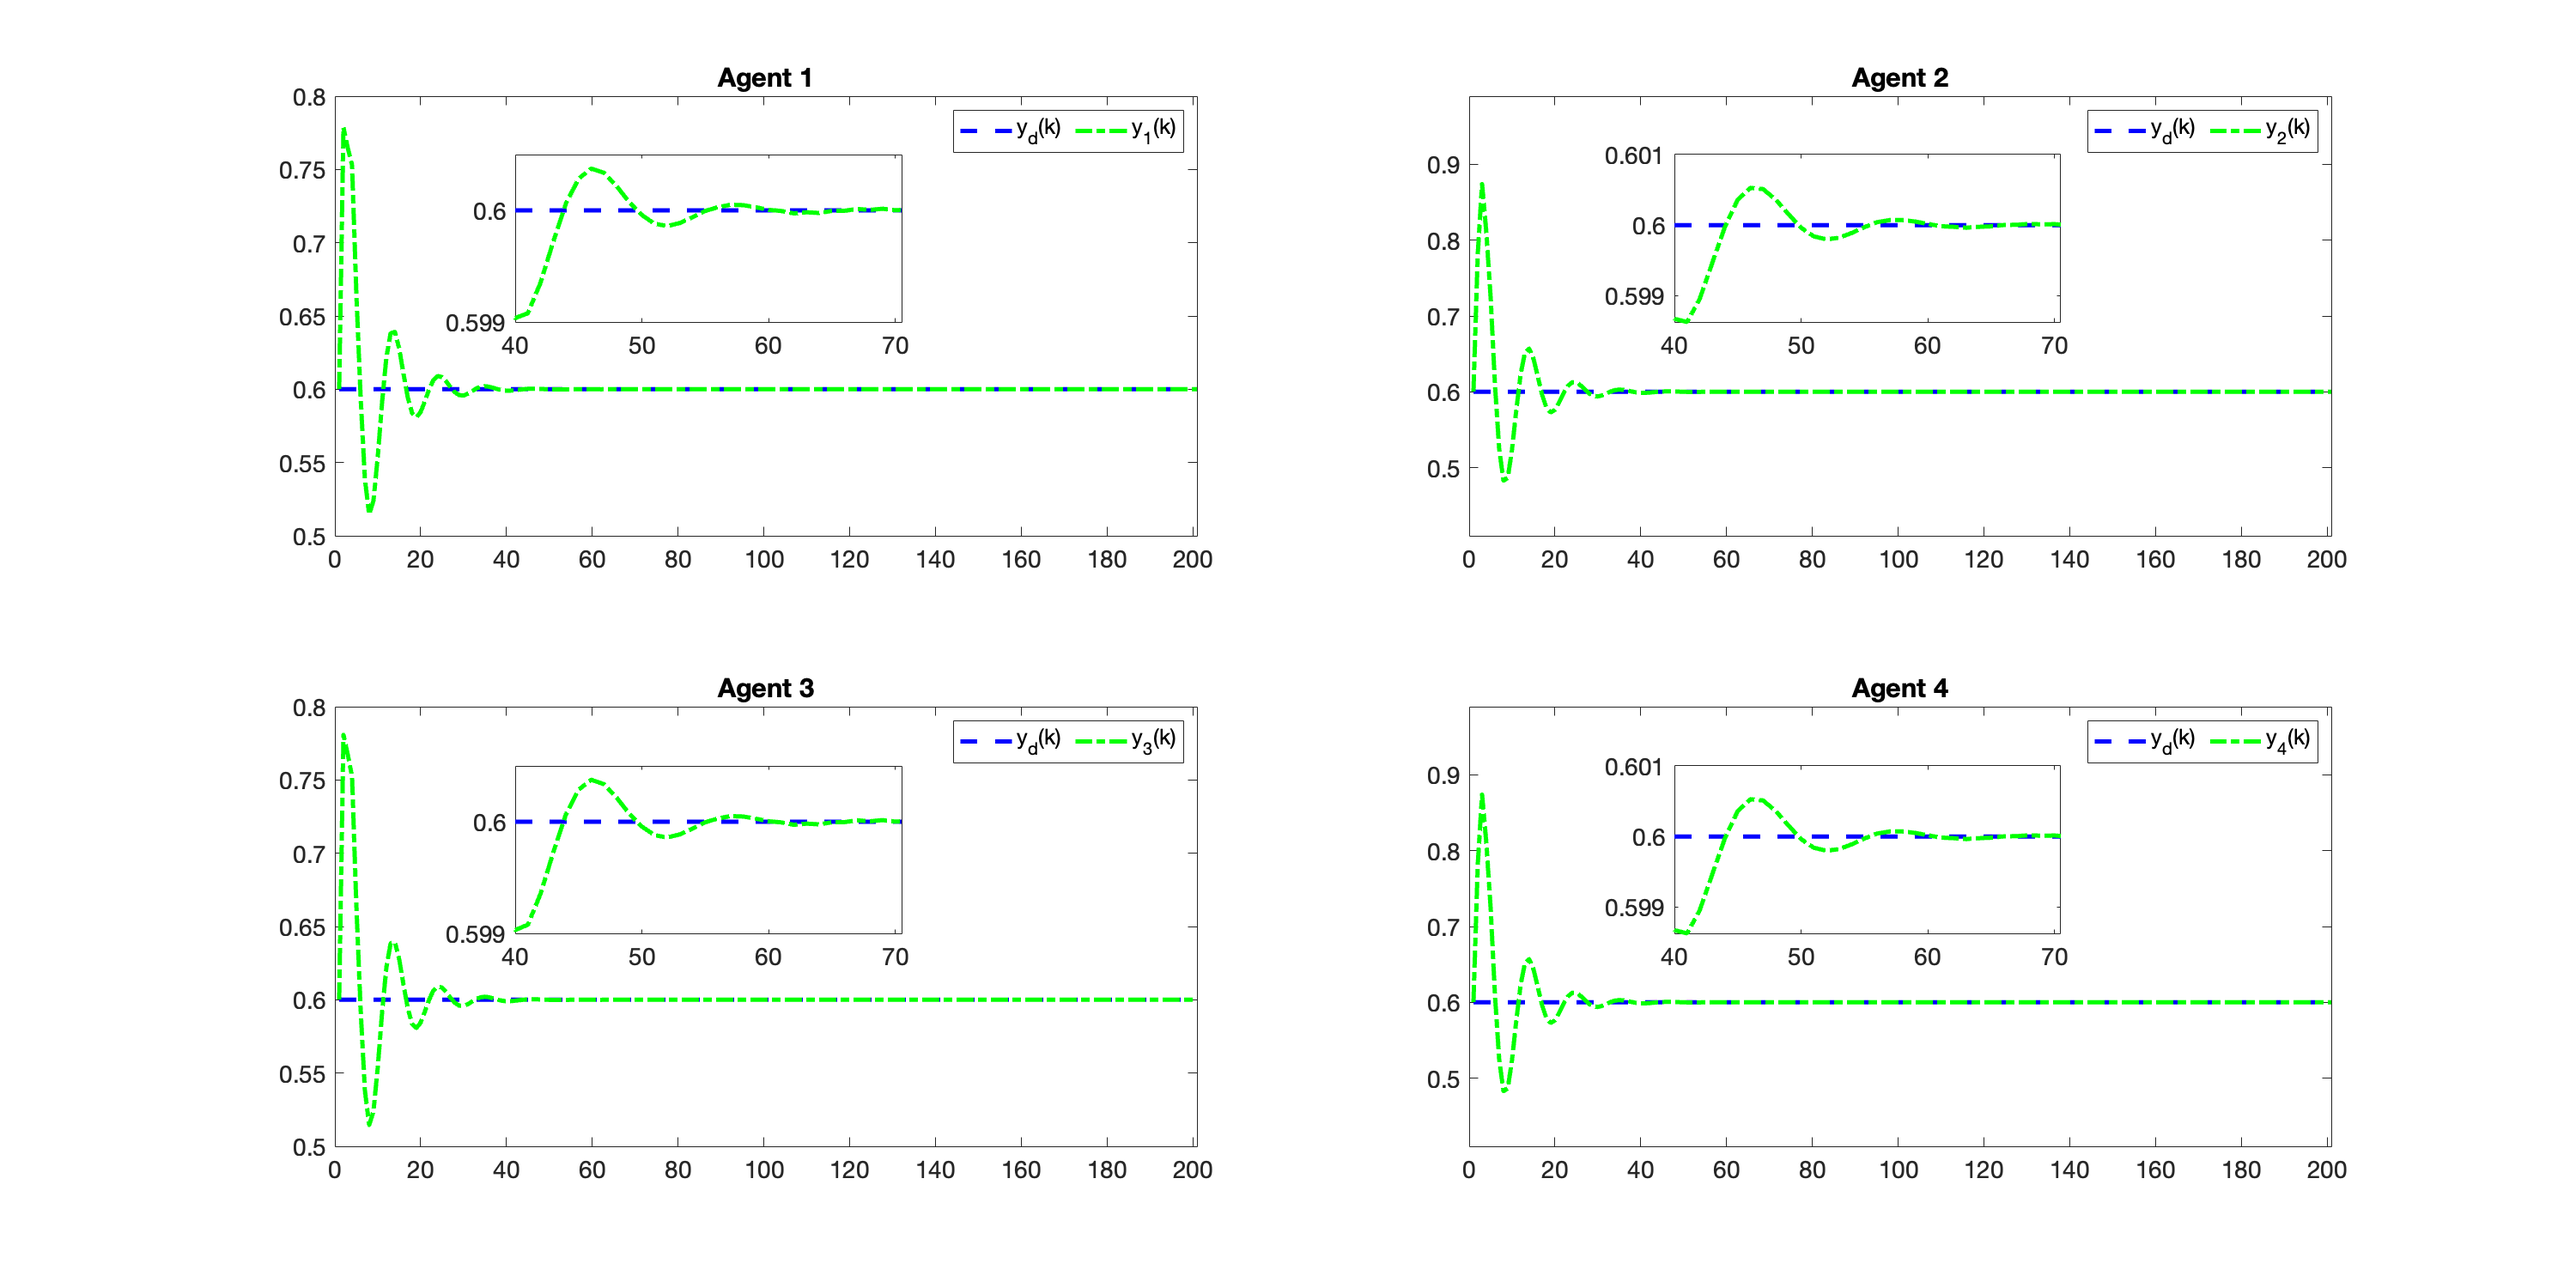
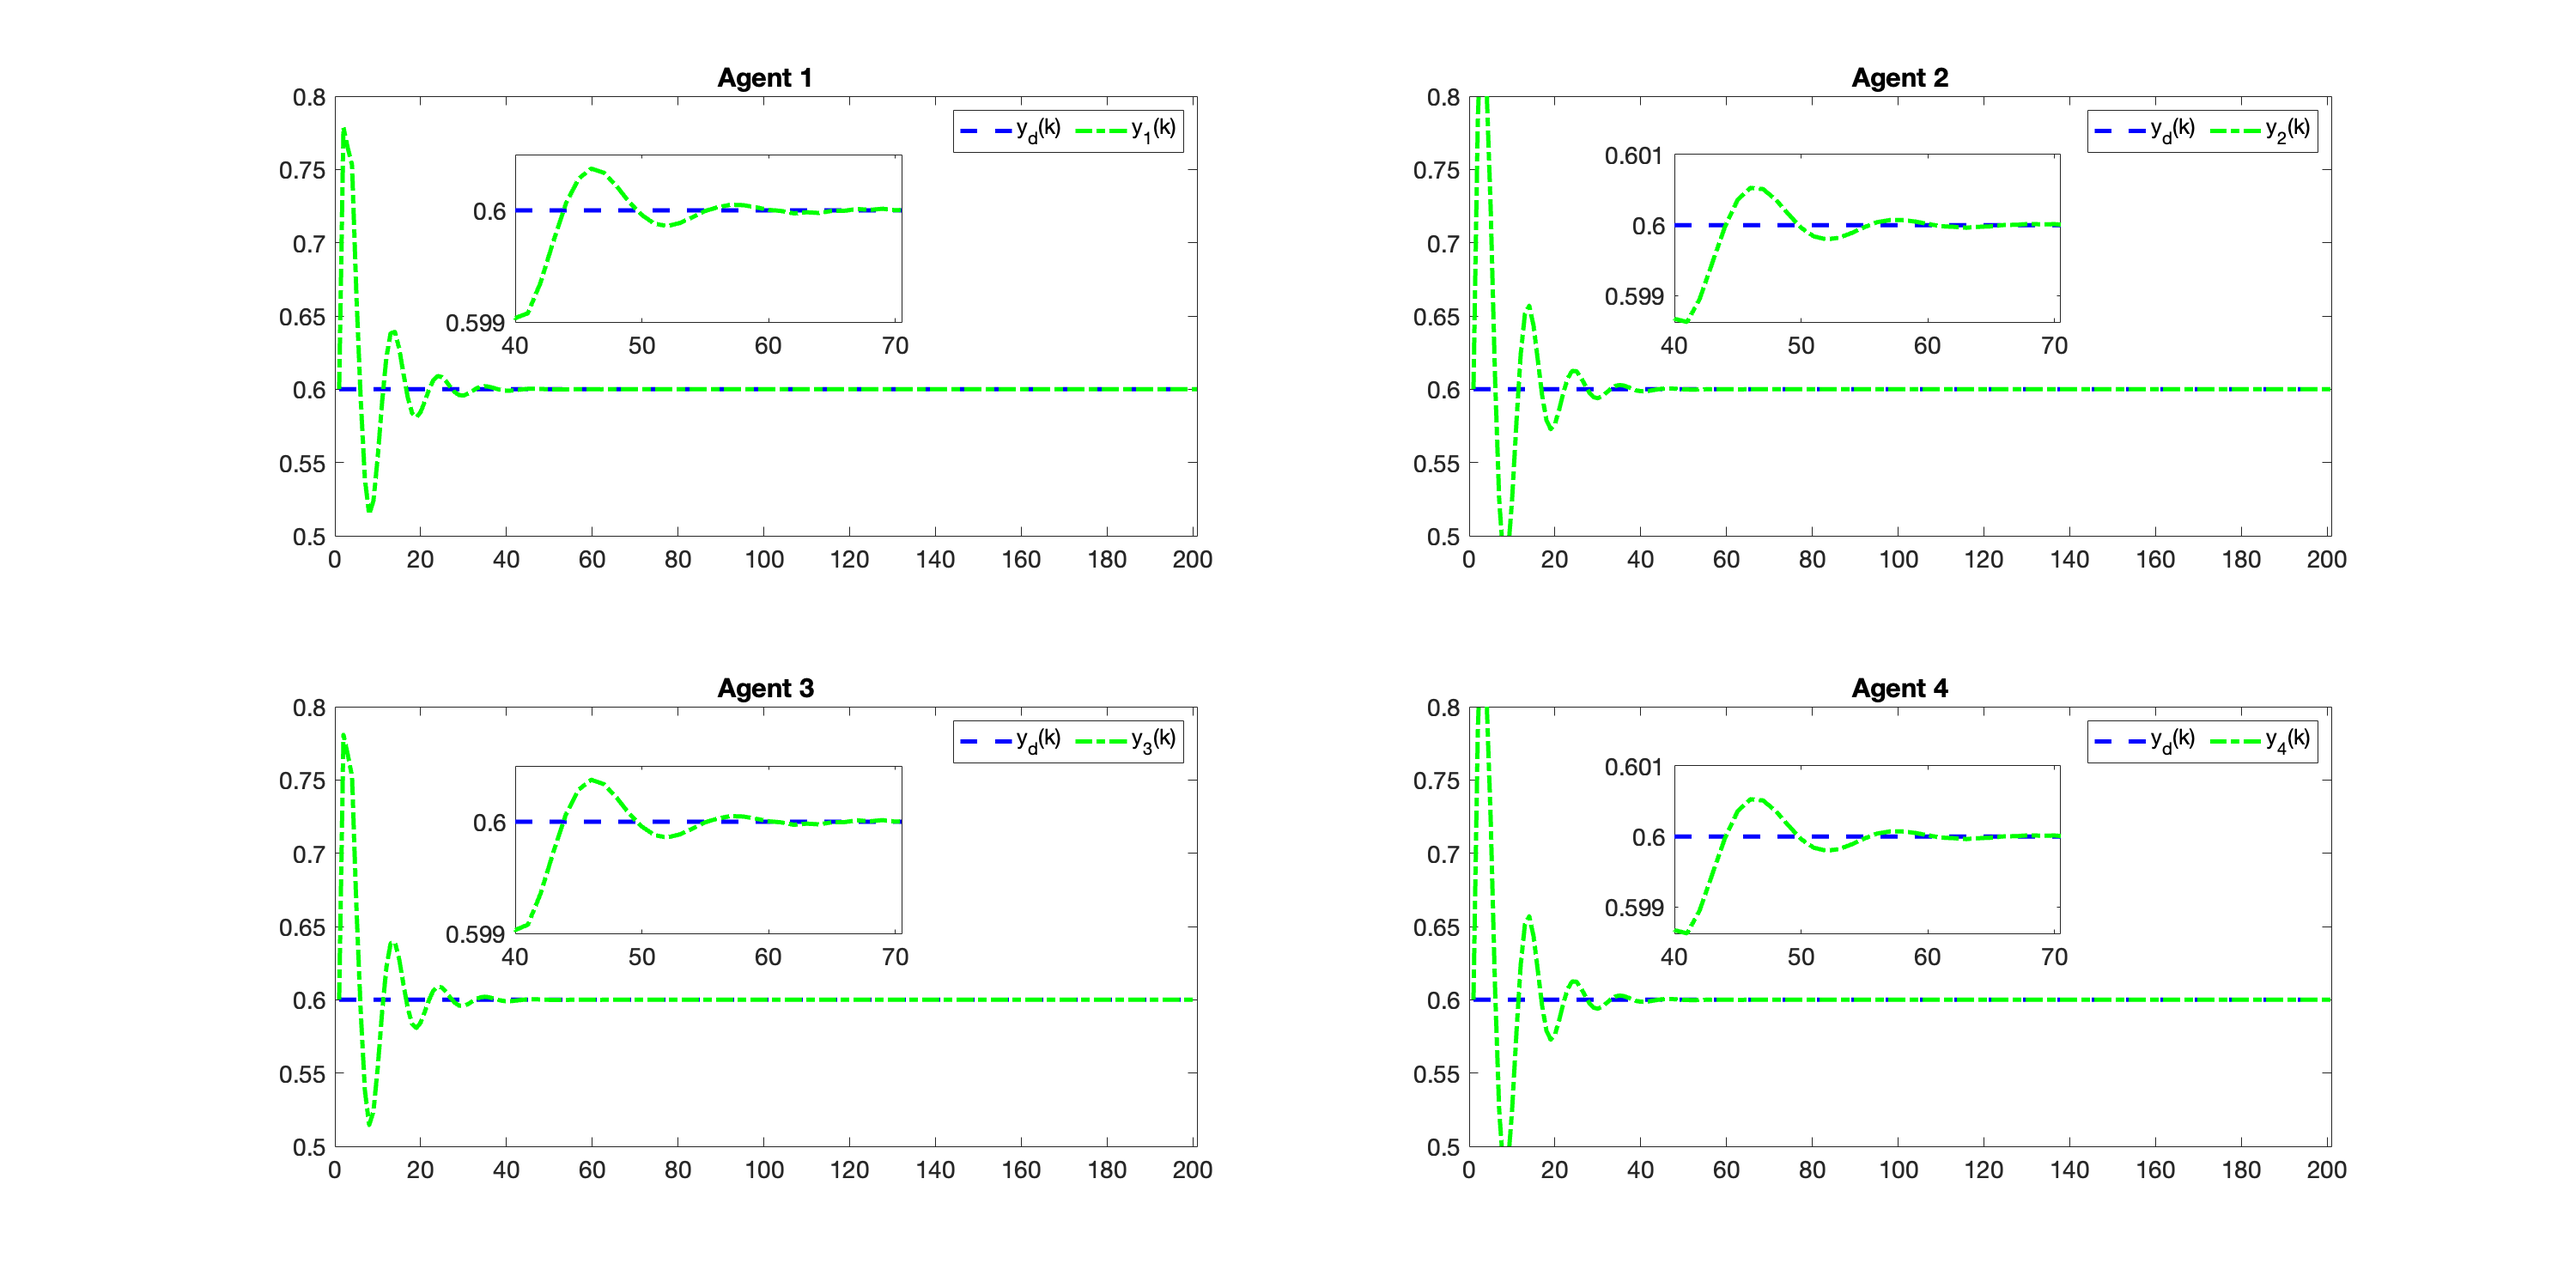
asda

Changed region(s): [[0.558, 0.0613, 0.899, 0.4293], [0.558, 0.736, 0.899, 0.8893], [0.558, 0.552, 0.589, 0.736]]

diff --git a/mfasmc.m b/mfasmc.m
@@ -225,7 +225,7 @@ title('Agent 2'); grid off;
 legend('y_d(k)','y_2(k)','Orientation', 'horizontal');
 set(gca, 'FontSize', font_size);
 xlim([0 m+1]); % X-axis starts from 0
-ylim([0.41 0.99]); % Y-axis limits for Agent 2
+ylim([0.5 0.8]); % Y-axis limits for Agent 2
 
 axes('Position', [0.65,0.75,0.15,0.13]);
 box on; hold on;
@@ -259,7 +259,7 @@ title('Agent 4'); grid off;
 legend('y_d(k)','y_4(k)','Orientation', 'horizontal');
 set(gca, 'FontSize', font_size);
 xlim([0 m+1]); % X-axis starts from 0
-ylim([0.41 0.99]); % Y-axis limits for Agent 2
+ylim([0.5 0.8]); % Y-axis limits for Agent 2
 
 axes('Position', [0.65,0.275,0.15,0.13]);
 box on; hold on;
@@ -287,8 +287,8 @@ set(gca, 'FontSize', font_size);
 xlim([0 m+1]); % X-axis starts from 0
 % ylim([0.5 0.8]); % Y-axis limits for Agent 1
 
-zoom_x_start_xi = 20; % Start of zoomed x-range
-zoom_x_end_xi = 90; % End of zoomed x-range
+zoom_x_start_xi = 50; % Start of zoomed x-range
+zoom_x_end_xi = 80; % End of zoomed x-range
 axes('Position', [0.20,0.75,0.15,0.13]);
 box on; hold on;
 plot(t(1:end-1), xi1, '-.g', 'LineWidth', 2.5);
@@ -322,7 +322,7 @@ xlim([0 m+1]); % X-axis starts from 0
 axes('Position', [0.20,0.170,0.15,0.13]);
 box on; hold on;
 plot(t(1:end-1), xi2, '-.g', 'LineWidth', 2.5);
-xlim([zoom_x_start zoom_x_end]);
+xlim([zoom_x_start_xi zoom_x_end_xi]);
 % yticks([0.599,0.6,0.601]);
 set(gca, 'FontSize', font_size);
 
@@ -337,8 +337,8 @@ xlim([0 m+1]); % X-axis starts from 0
 axes('Position', [0.65,0.170,0.15,0.13]);
 box on; hold on;
 plot(t(1:end-1), xi4, '-.g', 'LineWidth', 2.5);
-xlim([zoom_x_start zoom_x_end]);
-xticks([64,64.5,65])
-yticks([-1.000000000000000e-04,0,1.000000000000000e-04]);
+xlim([zoom_x_start_xi zoom_x_end_xi]);
+% xticks([64,64.5,65])
+% yticks([-1.000000000000000e-04,0,1.000000000000000e-04]);
 set(gca, 'FontSize', font_size);
 hold off;
